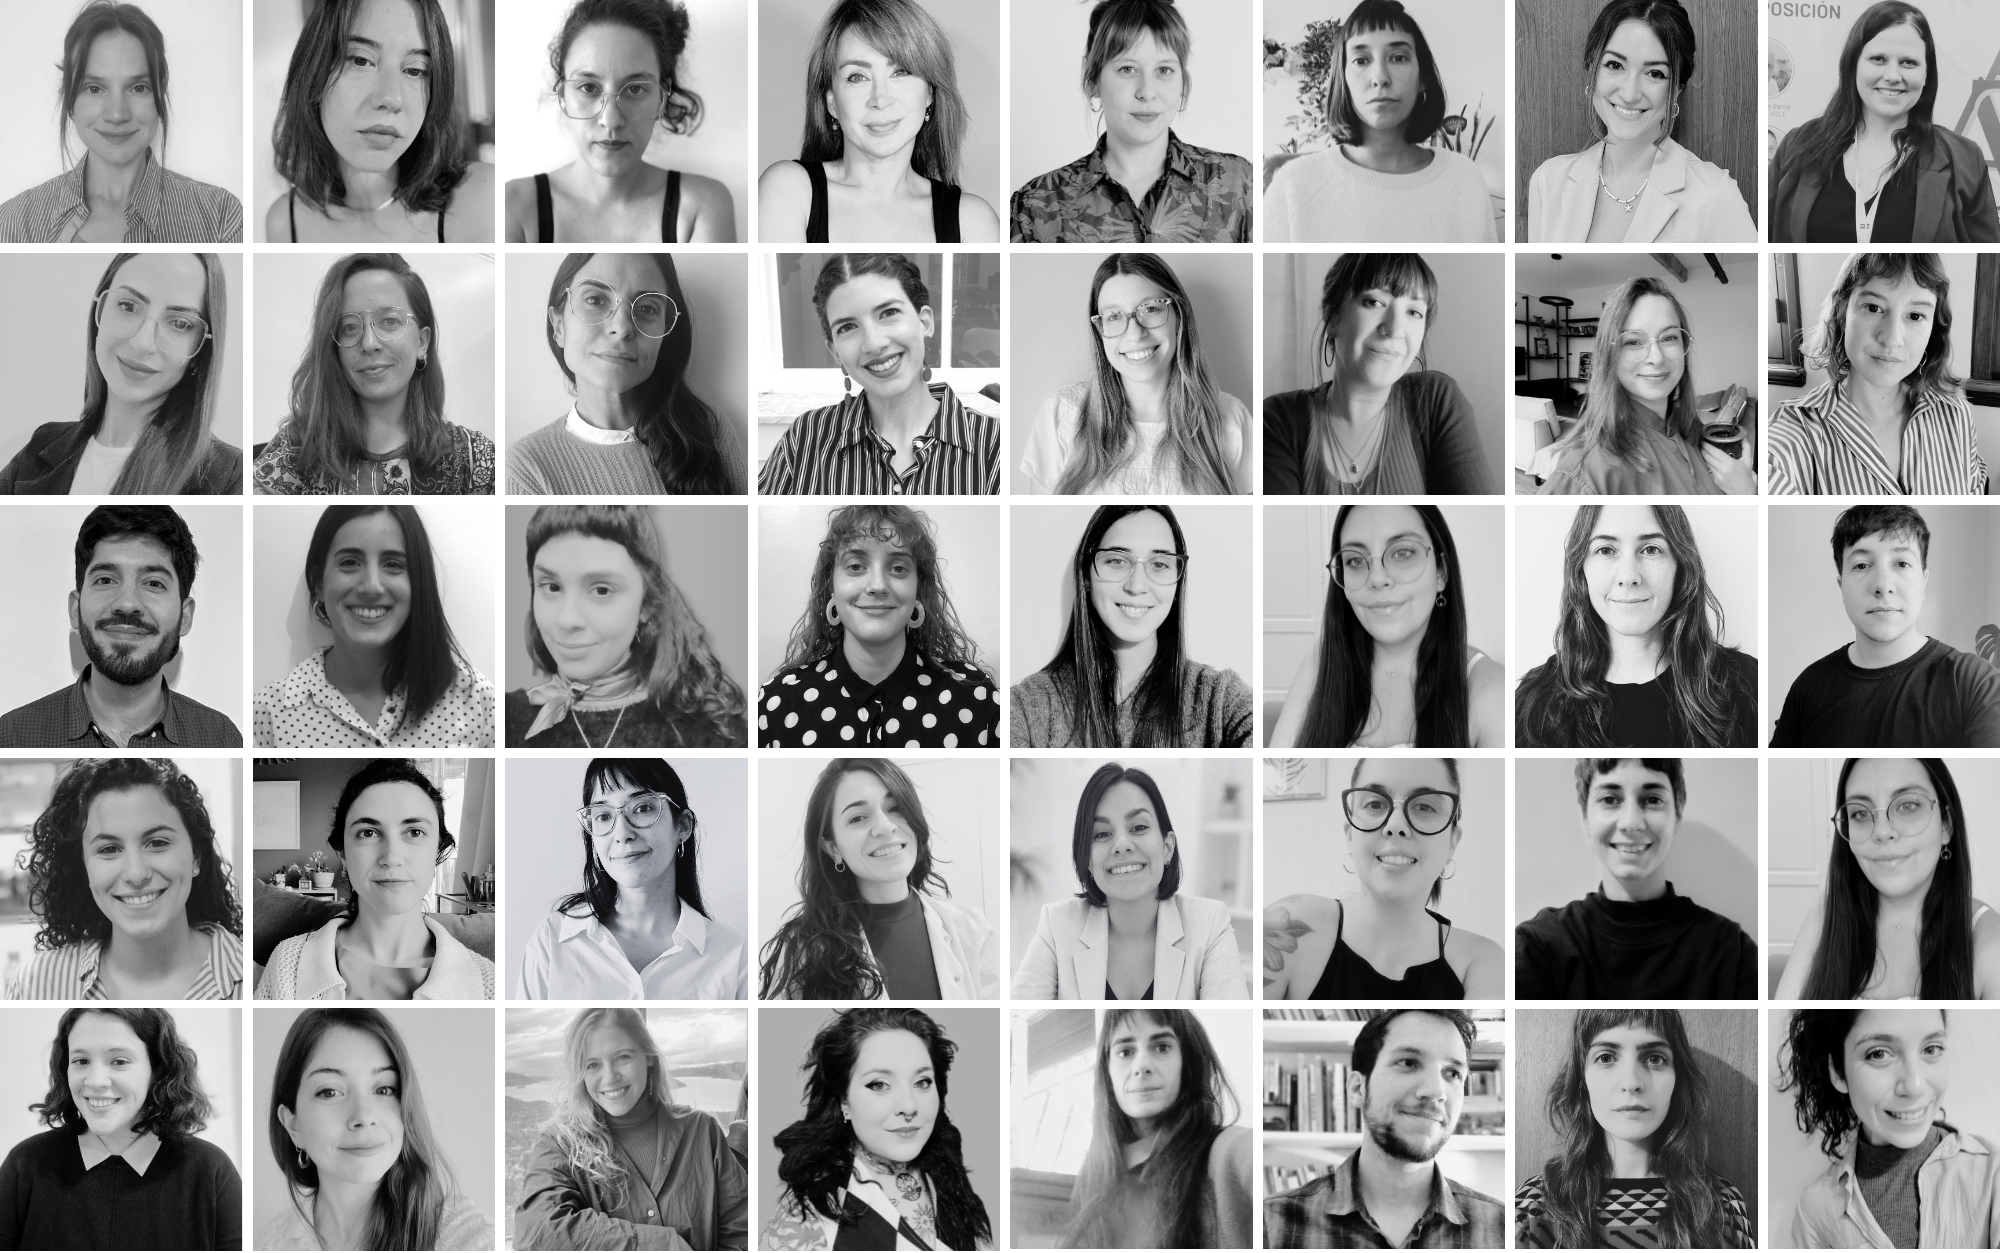
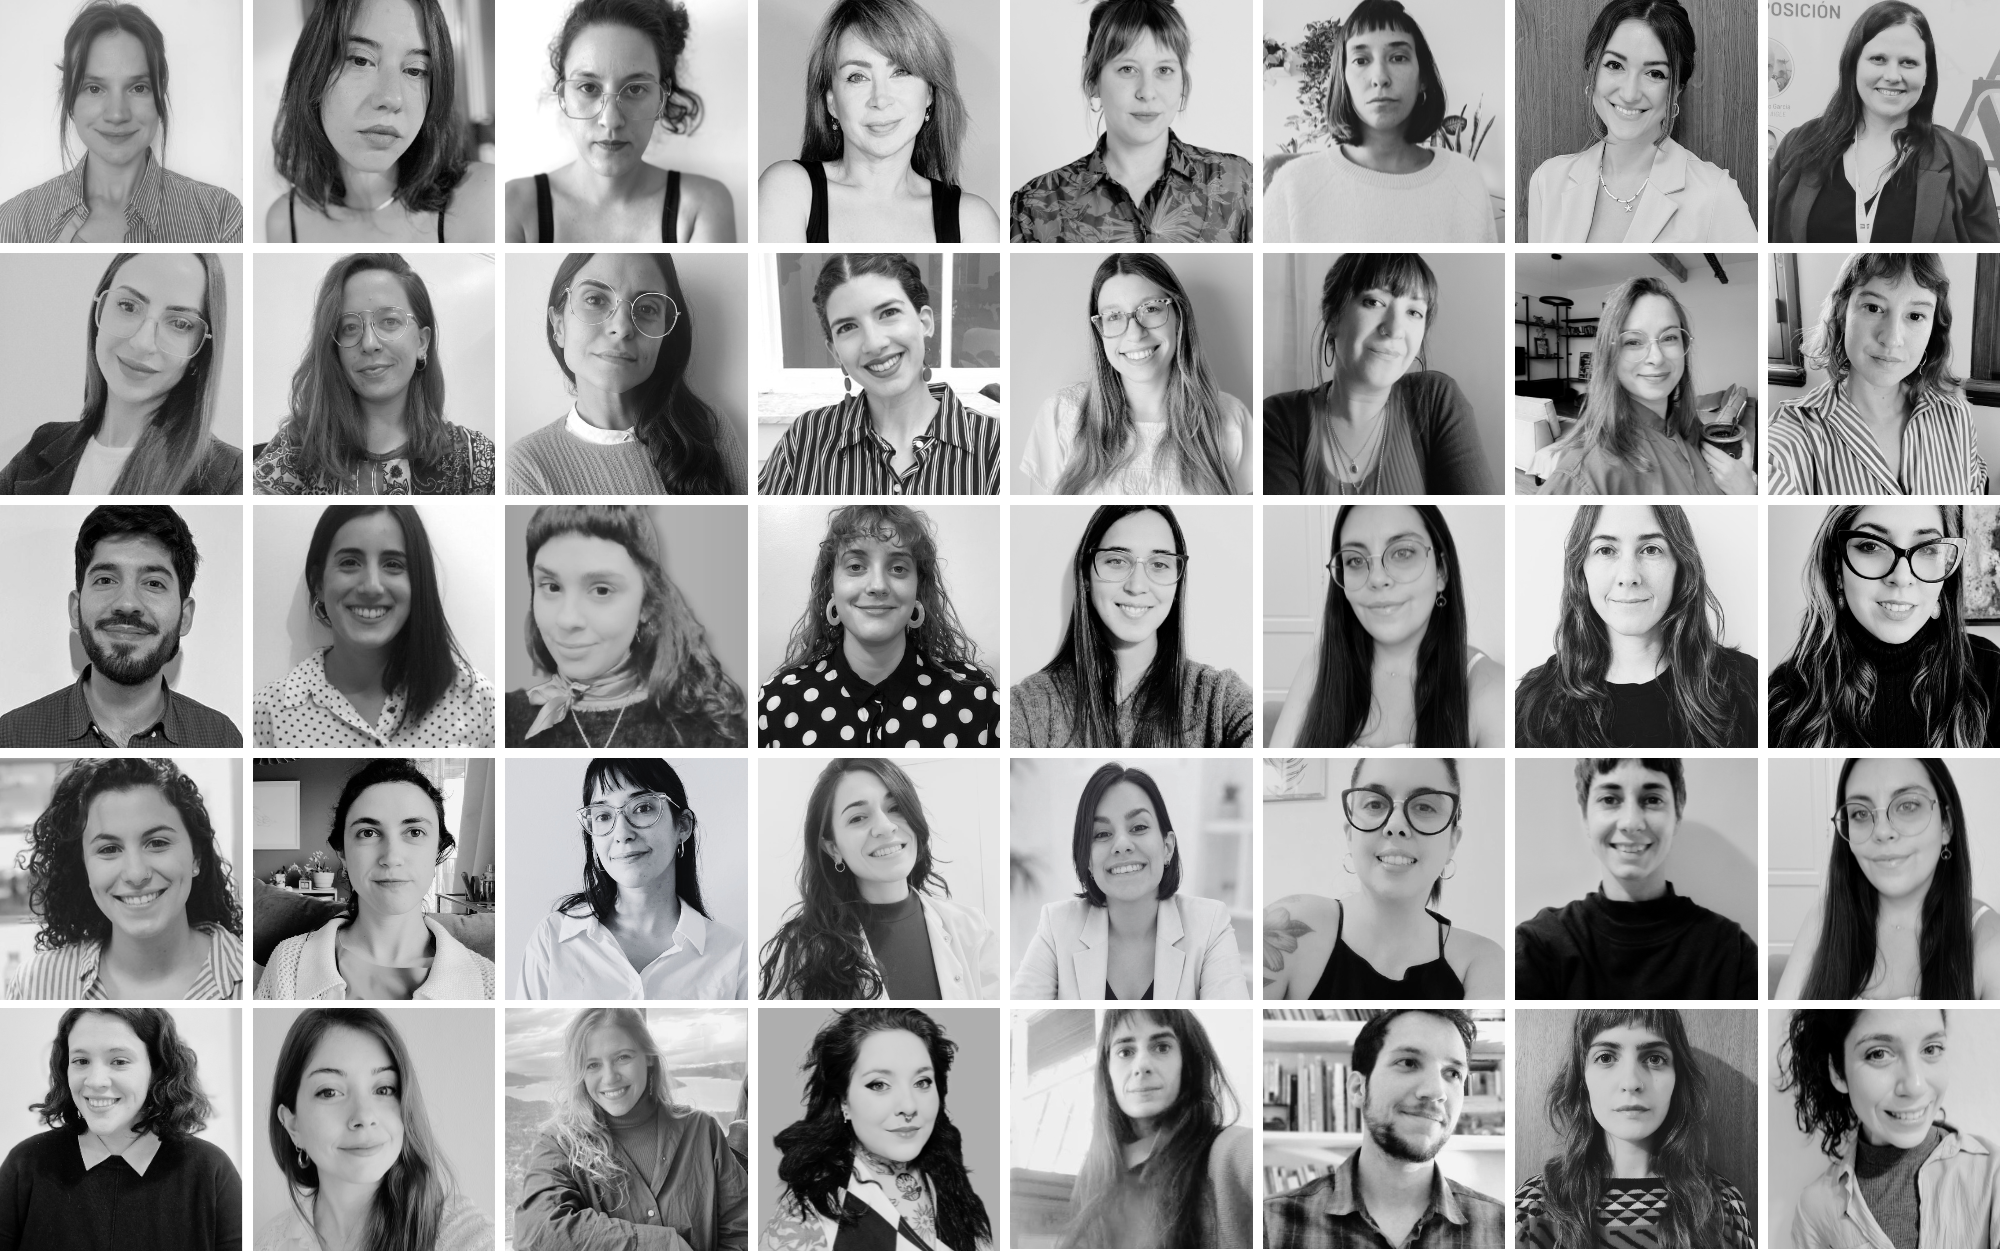
fix

diff --git a/components/home/Profes.jsx b/components/home/Profes.jsx
@@ -44,7 +44,6 @@ const professionals = [
   { name: "Lic. Ayelén Figueroa", number: "M.N. 78373" },
   { name: "Lic. Silvia Ferreyra", number: "M.N. 55280" },
   { name: "Lic. Francisco Herzberg", number: "M.N. 64321" },
-  { name: "Lic. Facundo Lezzi", number: "M.N. 76480" },
   { name: "Lic. Flor Inchauspe", number: "M.N. 66484" },
   { name: "Lic. Luciana Zalazar", number: "M.N. 68763" },
   { name: "Lic. Alejandra Teplitzchi", number: "M.N. 65227" },
@@ -52,6 +51,7 @@ const professionals = [
   { name: "Lic. Nicolás Parera", number: "M.N. 69818" },
   { name: "Lic. Silvina Acosta", number: "M.N. 69755" },
   { name: "Lic. Sofía Capria", number: "M.N. 63767" },
+  { name: "Lic. Tabhata Casco", number: "M.N. 77173" },
 ];
 
 const professionals2 = [
@@ -70,10 +70,8 @@ const professionals2 = [
   { name: "Dra. Alicia DeMarchi", number: "M.N. 179772" },
   { name: "Dra. Lucía Nosiglia", number: "M.N. 163217" },
   { name: "Dra. Lucía Vendrell", number: "M.N. 172936" },
-  { name: "Dra. Camila Álvarez Maschio", number: "M.N. 177851" },
   { name: "Lic. Magalí Jurnet", number: "M.N. 8250" },
   { name: "Lic. Melanie Salem", number: "M.N. 72090" },
-  { name: "Lic. Vico Tela", number: "M.N. 75564" },
   { name: "Dr. Luciano Varela", number: "M.N. 181476" },
 ];
 function Profesionales() {
